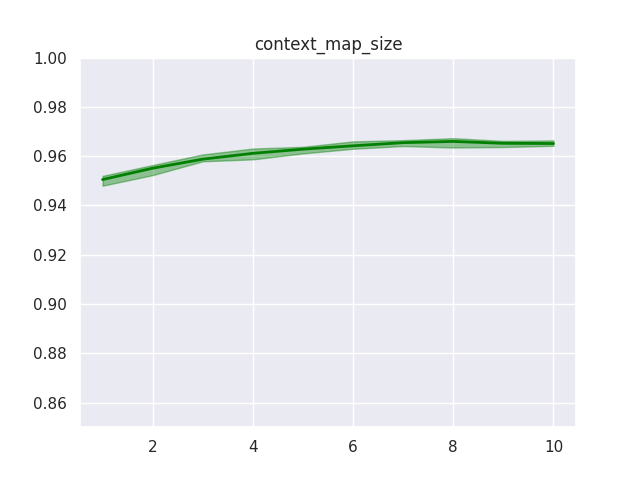
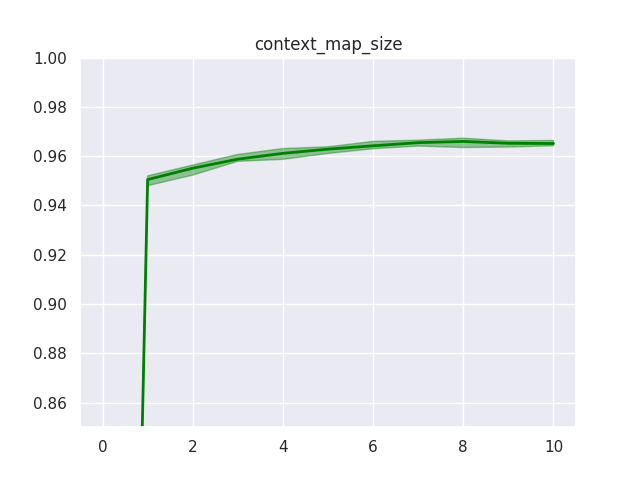
Update blogpost, update default hyperparams, zero-context for PyTorch

diff --git a/pygln/pytorch/gln.py b/pygln/pytorch/gln.py
@@ -50,14 +50,15 @@ class Linear(nn.Module):
                  learning_rate: DynamicParameter,
                  pred_clipping: float,
                  weight_clipping: float,
-                 bias: bool = True,
-                 context_bias: bool = True):
+                 bias: bool,
+                 context_bias: bool):
         super().__init__()
 
         assert size > 0 and input_size > 0 and context_size > 0
-        assert context_map_size >= 1
+        assert context_map_size >= 0
         assert num_classes >= 2
 
+        self.context_map_size = context_map_size
         self.num_classes = num_classes if num_classes > 2 else 1
         self.learning_rate = learning_rate
         # clipping value for predictions
@@ -75,13 +76,16 @@ class Linear(nn.Module):
             self.bias = None
             self.size = size
 
-        self._context_maps = torch.as_tensor(
-            np.random.normal(size=(self.num_classes, self.size,
-                                   context_map_size, context_size)),
-            dtype=torch.float32)
+        if context_map_size > 0:
+            self._context_maps = torch.as_tensor(
+                np.random.normal(size=(self.num_classes, self.size,
+                                       context_map_size, context_size)),
+                dtype=torch.float32)
 
         # constant values for halfspace gating
-        if context_bias:
+        if context_map_size == 0:
+            pass
+        elif context_bias:
             context_bias_shape = (self.num_classes, self.size,
                                   context_map_size, 1)
             self._context_bias = torch.tensor(
@@ -93,15 +97,17 @@ class Linear(nn.Module):
             self._context_bias = torch.tensor(0.0)
 
         self.bias = nn.Parameter(self.bias, requires_grad=False)
-        self._context_maps = nn.Parameter(self._context_maps,
-                                          requires_grad=False)
-        self._context_bias = nn.Parameter(self._context_bias,
-                                          requires_grad=False)
 
-        # array to convert mapped_context_binary context to index
-        self._boolean_converter = nn.Parameter(torch.as_tensor(
-            np.array([[2**i] for i in range(context_map_size)])),
-                                               requires_grad=False)
+        if context_map_size > 0:
+            self._context_maps = nn.Parameter(self._context_maps,
+                                              requires_grad=False)
+            self._context_bias = nn.Parameter(self._context_bias,
+                                              requires_grad=False)
+
+            # array to convert mapped_context_binary context to index
+            self._boolean_converter = nn.Parameter(torch.as_tensor(
+                np.array([[2**i] for i in range(context_map_size)])),
+                                                   requires_grad=False)
 
         # weights for the whole layer
         weights_shape = (self.num_classes, self.size, 2**context_map_size,
@@ -112,12 +118,17 @@ class Linear(nn.Module):
                                      requires_grad=False)
 
     def predict(self, logit, context, target=None):
-        # project side information and determine context index
-        distances = torch.matmul(self._context_maps, context.T)
-        mapped_context_binary = (distances > self._context_bias).int()
-        current_context_indices = torch.sum(mapped_context_binary *
-                                            self._boolean_converter,
-                                            dim=-2)
+        if self.context_map_size > 0:
+            # project side information and determine context index
+            distances = torch.matmul(self._context_maps, context.T)
+            mapped_context_binary = (distances > self._context_bias).int()
+            current_context_indices = torch.sum(mapped_context_binary *
+                                                self._boolean_converter,
+                                                dim=-2)
+        else:
+            current_context_indices = torch.zeros(
+                self.num_classes, self.size, 1, dtype=torch.int64
+            )
 
         # select all context across all neurons in layer
         current_selected_weights = self._weights[
@@ -186,7 +197,7 @@ class GLN(nn.Module, GLNBase):
                  num_classes: int = 2,
                  context_map_size: int = 4,
                  bias: bool = True,
-                 context_bias: bool = True,
+                 context_bias: bool = False,
                  base_predictor: Optional[
                      Callable[[np.ndarray], np.ndarray]] = None,
                  learning_rate: Union[float, DynamicParameter] = 1e-3,

diff --git a/pygln/numpy/gln.py b/pygln/numpy/gln.py
@@ -155,8 +155,8 @@ class Linear():
                  learning_rate: DynamicParameter,
                  pred_clipping: float,
                  weight_clipping: float,
-                 bias: bool = True,
-                 context_bias: bool = True):
+                 bias: bool,
+                 context_bias: bool):
         super().__init__()
 
         assert size > 0 and input_size > 0 and context_size > 0
@@ -270,7 +270,7 @@ class GLN(GLNBase):
                  num_classes: int = 2,
                  context_map_size: int = 4,
                  bias: bool = True,
-                 context_bias: bool = True,
+                 context_bias: bool = False,
                  base_predictor: Optional[Callable[[np.ndarray], np.ndarray]] = None,
                  learning_rate: Union[float, DynamicParameter] = 1e-3,
                  pred_clipping: float = 1e-3,

diff --git a/pygln/base.py b/pygln/base.py
@@ -53,7 +53,7 @@ class GLNBase(OnlineUpdateModel):
                  num_classes: int = 2,
                  context_map_size: int = 4,
                  bias: bool = True,
-                 context_bias: bool = True,
+                 context_bias: bool = False,
                  base_predictor: Optional[Callable[[np.ndarray], np.ndarray]] = None,
                  learning_rate: float = 1e-3,
                  pred_clipping: float = 1e-3,
@@ -69,7 +69,7 @@ class GLNBase(OnlineUpdateModel):
         assert num_classes >= 2
         self.num_classes = int(num_classes)
 
-        assert context_map_size >= 1
+        assert context_map_size >= 0
         self.context_map_size = int(context_map_size)
 
         self.bias = bool(bias)

diff --git a/pygln/tf/gln.py b/pygln/tf/gln.py
@@ -208,7 +208,7 @@ class GLN(tf.Module, GLNBase):
                  num_classes: int = 2,
                  context_map_size: int = 4,
                  bias: bool = True,
-                 context_bias: bool = True,
+                 context_bias: bool = False,
                  base_predictor: Optional[Callable[[np.ndarray], np.ndarray]] = None,
                  learning_rate: Union[float, DynamicParameter] = 1e-3,
                  pred_clipping: float = 1e-3,

diff --git a/pygln/jax/gln.py b/pygln/jax/gln.py
@@ -217,7 +217,7 @@ class GLN(GLNBase):
                  num_classes: int = 2,
                  context_map_size: int = 4,
                  bias: bool = True,
-                 context_bias: bool = True,
+                 context_bias: bool = False,
                  base_predictor: Optional[Callable[[ndarray], ndarray]] = None,
                  learning_rate: Union[float, DynamicParameter] = 1e-3,
                  pred_clipping: float = 1e-3,

diff --git a/pygln/gln.py b/pygln/gln.py
@@ -8,7 +8,7 @@ def GLN(backend: str,
         num_classes: int = 2,
         context_map_size: int = 4,
         bias: bool = True,
-        context_bias: bool = True,
+        context_bias: bool = False,
         base_predictor: Optional[Callable[[np.ndarray], np.ndarray]] = None,
         learning_rate: float = 1e-3,
         pred_clipping: float = 1e-3,
